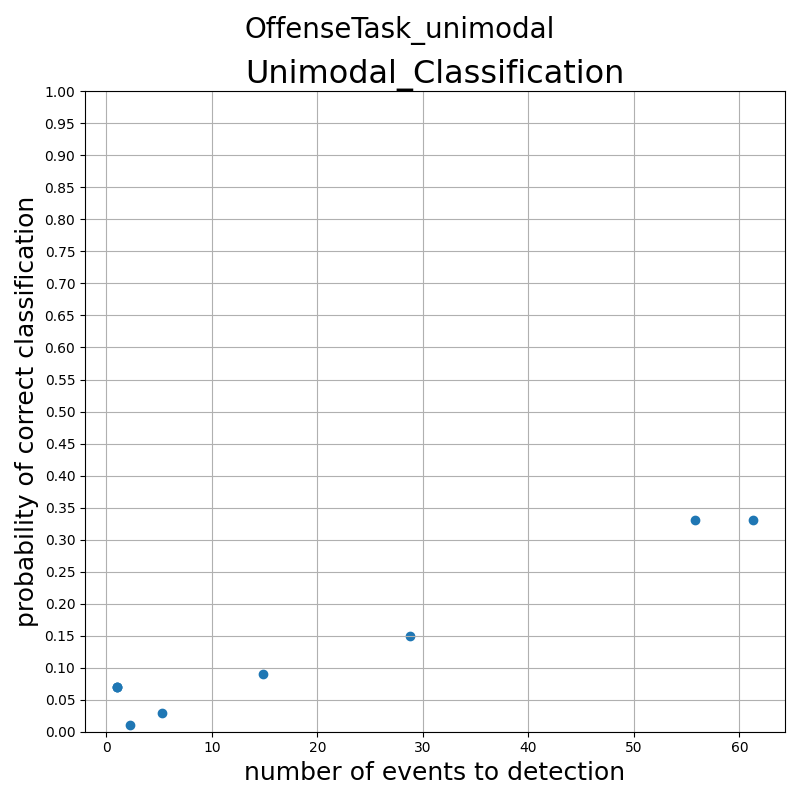
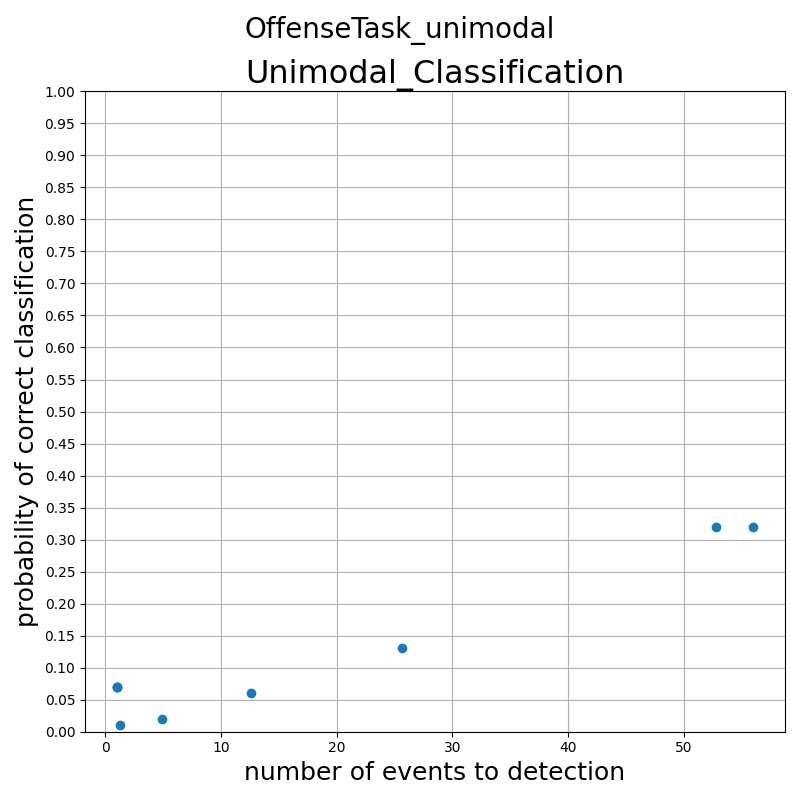
fail

diff --git a/nets/gpt copy/utils.py b/nets/gpt copy/utils.py
@@ -1,0 +1,58 @@
+import torch  
+import torch as tc
+import numpy as np
+import torch.nn as nn
+import inspect
+def init_weights(module):
+  if isinstance(module, nn.Linear):
+    tc.nn.init.normal_(module.weight, mean=0.0, std=0.02)
+    if module.bias is not None:
+        tc.nn.init.zeros_(module.bias)
+  elif isinstance(module, nn.Embedding):
+    tc.nn.init.normal_(module.weight, mean=0.0, std=0.02)  
+
+def configure_optimizers(self, weight_decay, learning_rate, betas, device_type):
+  param_dict = {pn: p for pn, p in self.named_parameters()}# start with all candidate params
+  param_dict = {pn: p for pn, p in param_dict.items() if p.requires_grad}# filter out those that do not require grad
+  #create optim groups. Any params that is 2D will be weight decayed, otherwise no.
+  # i.e. all weight tensors in matmuls + embeddings decay, all biases and layernorms don't.
+  decay_params = [p for n, p in param_dict.items() if p.dim() >= 2]
+  nodecay_params = [p for n, p in param_dict.items() if p.dim() < 2]
+  optim_groups = [
+     {'params': decay_params, 'weight_decay': weight_decay},
+     {'params': nodecay_params, 'weight_decay': 0.0}
+  ]
+  num_decay_params = sum(p.numel() for p in decay_params)
+  num_nodecay_params = sum(p.numel() for p in nodecay_params)
+  print(f"num decayed parameter tensors: {len(decay_params)}, with {num_decay_params:,} parameters")
+  print(f"num non-decayed parameter tensors: {len(nodecay_params)}, with {num_nodecay_params:,} parameters")
+  # Create AdamW optimizer and use the fused version if it is available
+  fused_available = 'fused' in inspect.signature(torch.optim.AdamW).parameters
+  use_fused = fused_available and device_type == 'cuda'
+  extra_args = dict(fused=True) if use_fused else dict()
+  optimizer = torch.optim.AdamW(optim_groups, lr=learning_rate, betas=betas, **extra_args)
+  print(f"using fused AdamW: {use_fused}")
+  return optimizer
+device = 'cuda' if torch.cuda.is_available() else 'cpu'
+
+
+class Discretizer:
+  #todo   use log
+  def __init__(self,cont_max,token_num):
+    self.cont_max = cont_max
+    self.token_num = token_num
+    self.scale = (token_num-1)/cont_max  
+    self.interval  = cont_max/(token_num-1)
+  def cont_2_token(self,cont_values):
+    assert cont_values.max()<=self.cont_max
+    token_values_raw=cont_values*self.scale  
+    token_values = token_values_raw.to(dtype=tc.int64)
+    assert token_values.max()<=self.token_num
+    return token_values
+  def token_2_cont(self,token_values):
+    token_cont = token_values.to(tc.float32)
+    cont_values_raw = token_cont/self.scale
+    cont_values = cont_values_raw +\
+         tc.rand(token_values.shape)*self.interval
+    assert cont_values.max()<=self.cont_max
+    return cont_values

diff --git a/nets/gpt copy/nn_gpt_net.py b/nets/gpt copy/nn_gpt_net.py
@@ -27,38 +27,40 @@ class GPT(nn.Module):
     device = idx.device
     b, t = idx.size() #*idx [bs,sentence_len=block_len]#*ex if prompt = "hello",then block len = 5
     assert t <= self.c.block_size, f"cant forward seq of len {t}, block size is only {self.c.block_size}"
-    
+    '''
     if terminate_index != None:
-      term_idx = (terminate_index*3)
+      term_idx = (terminate_index*3).reshape(1,-1)
       # assert tc.all(term_idx>=3)
-      # print(idx[tc.arange(b),term_idx-2])
+      print(idx[tc.arange(b),term_idx])
       # idx[0]
       # idx[0,term_idx[0]]  #nothing
       # idx[0,term_idx[0]-1]  #t=0
       # idx[0,term_idx[0]-2]  #y=971
       # idx[0,term_idx[0]-3]  #x=383
-      # print(targets[tc.arange(b),term_idx-2])
+      print(targets[tc.arange(b),term_idx])
       # targets[0]
+      # targets[0,term_idx[0]]  #nothing
       # targets[0,term_idx[0]-1]  #nothing
       # targets[0,term_idx[0]-2]  #t=0
       # targets[0,term_idx[0]-3]  #y=971
-      term_idx = term_idx.reshape(1,-1)
       visible_end = tc.cat((term_idx-3,term_idx-2,term_idx-1))    
-      max_end = visible_end.max()
-      assert max_end <= idx.shape[1]
-      if max_end == idx.shape[1]:
-        visible_end = tc.where(visible_end==max_end,max_end-1,visible_end)
+    '''
     pos = tc.arange(0, t, dtype=tc.long, device=device) # shape (t)  #*pos =[0]
     # pos = [1,2,3,...,sentence_len] for pos embed
     tok_emb = self.wte(idx) # token embed (b,t)->(b, t, n_embd)
     pos_emb = self.wpe(pos) # pos embed     (t)->   (t, n_embd)
     x = self.drop(tok_emb + pos_emb) # x(b,t,n_embd)
     for block in self.h:
-      x = block(x,visible_end)
+      x = block(x)
     x = self.ln_f(x)  
-    logits = self.lm_head(x)#(b,t,n_embd=384)->(b,t,vocab_size=65)
     if targets is not None:  # if we are given some desired targets also calculate the loss
+      logits = self.lm_head(x)#(b,t,n_embd=384)->(b,t,vocab_size=65)
+      
       loss = F.cross_entropy(logits.view(-1, logits.size(-1)), targets.reshape(-1), ignore_index=-1)
-    else:
+    else:  #* in self.generate
+      # inference-time mini-optimization: only forward lm_head on very last position
+      logits = self.lm_head(x[:, [-1], :]) # using list [-1] to preserve the time dim
+      #* x(b,t,n_embd) -> (b,1,b_embd)->(b,1,vocab_size)
       loss = None
+    # breakpoint()
     return logits, loss

diff --git a/nets/gpt copy/trans.py b/nets/gpt copy/trans.py
@@ -25,7 +25,7 @@ class CausalSelfAttention(nn.Module):
     # causal mask to ensure that attn is only applied to left in input seq
     self.register_buffer("bias", tc.tril(tc.ones(c.block_size, c.block_size))
                                 .view(1, 1, c.block_size, c.block_size))
-  def forward(self, x,visible_end):
+  def forward(self, x):
     B, T, C = x.size() # batch size, sequence length, embedding dimensionality (n_embd)
     # calculate query, key, values for all heads in batch and move head forward to be the batch dim
     q, k, v  = self.c_attn(x).split(self.n_embd, dim=2)
@@ -34,14 +34,7 @@ class CausalSelfAttention(nn.Module):
     v = v.view(B, T, self.n_head, C // self.n_head).transpose(1, 2) # (B, nh, T, hs)
     # causal self-attention; Self-attend: (B, nh, T, hs) x (B, nh, hs, T) -> (B, nh, T, T)
     att = (q @ k.transpose(-2, -1)) * (1.0 / math.sqrt(k.size(-1)))
-    att_raw = att.masked_fill(self.bias[:,:,:T,:T] == 0, float('-inf'))
-    
-    att_raw[tc.arange(B),:,:,visible_end[0]] = att[tc.arange(B),:,:,visible_end[0]]
-    att_raw[tc.arange(B),:,:,visible_end[1]] = att[tc.arange(B),:,:,visible_end[1]]
-    att_raw[tc.arange(B),:,:,visible_end[2]] = att[tc.arange(B),:,:,visible_end[2]]
-    att = att_raw    #att (128,n_head=6,209,209)   vis_end.max(208)
-    #todo
-    # breakpoint()
+    att = att.masked_fill(self.bias[:,:,:T,:T] == 0, float('-inf'))
     att = F.softmax(att, dim=-1)
     att = self.attn_dropout(att)
     y = att @ v # (B, nh, T, T) x (B, nh, T, hs) -> (B, nh, T, hs)
@@ -71,7 +64,7 @@ class Block(nn.Module):
     self.attn = CausalSelfAttention(c)
     self.ln_2 = LayerNorm(c.n_embd, bias=c.bias)
     self.mlp = MLP(c)
-  def forward(self, x,visible_end):
-    x = x + self.attn(self.ln_1(x),visible_end)
+  def forward(self, x):
+    x = x + self.attn(self.ln_1(x))
     x = x + self.mlp(self.ln_2(x))
     return x

diff --git a/main_gen2.py b/main_gen2.py
@@ -31,7 +31,7 @@ disc = Discretizer(max_ttt,vocab_size)
 # Use Training set for ISIT2024
 max_sample_len_train = 70
 min_sample_len_train = 3
-training_len  =1000# 200#* 1000  
+training_len  =600#600#* 1000  
 eval_len = 10
 bs = 128
 load_from_checkpoint = True
@@ -71,7 +71,7 @@ if load_from_checkpoint == False:
     yy = pos_xyt[:,1:blocksize+1]
     assert xx.shape[0]==bs and xx.shape[1]==blocksize and yy.shape[0]==bs and yy.shape[1]==blocksize
     assert xx.max()<vocab_size and yy.max()<vocab_size
-    _,loss = model(xx,yy,terminate_idx)#,terminate_idx)
+    _,loss = model(xx,yy,terminate_idx)
     optim.zero_grad() 
     loss.backward()
     optim.step()
@@ -115,7 +115,7 @@ def generate(model_, idx, end_idx_, temperature=1.0, top_k=None):
   for ii in range(2,end_idx_-1):
     # if seq context grow too long we must crop it at block_size
     idx_cond = idx 
-    logits, _ = model_(idx_cond,idx_cond) 
+    logits, _ = model_(idx_cond,None,terminate_index=tc.tensor([(end_idx_+3)//3],dtype=tc.int64)) 
     logits = logits[:,[ii],:]
     logits = logits[:, -1, :] / temperature# pluck logits at final step and scale by desired temperature
     if top_k is not None:# optionally crop the logits to only the top k options
@@ -138,6 +138,7 @@ with tc.no_grad():
       bs,bl = gen_xyt.shape 
       gen_xyt = gen_xyt.reshape(bs,-1,3)  
       print('---------------')
+breakpoint()
 from nets.nn_net import NeuralNetwork
 from data_set_.data_loader_ import ISITDataset
 max_sample_len_eval = 70  #*70
